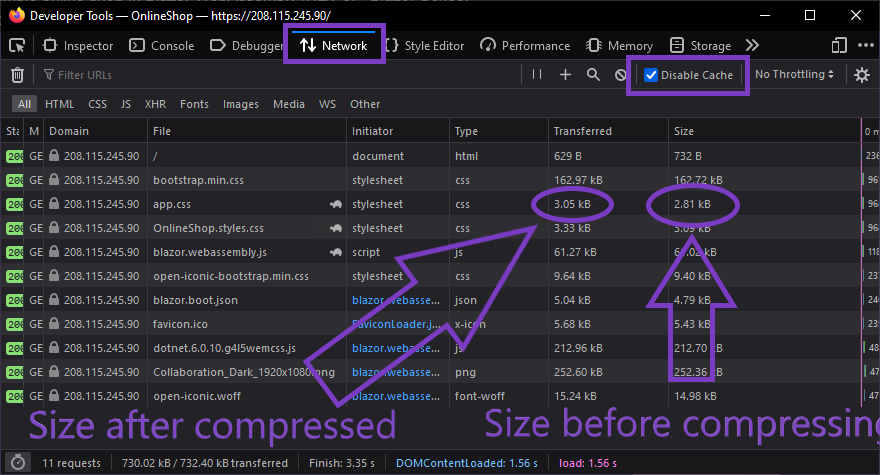
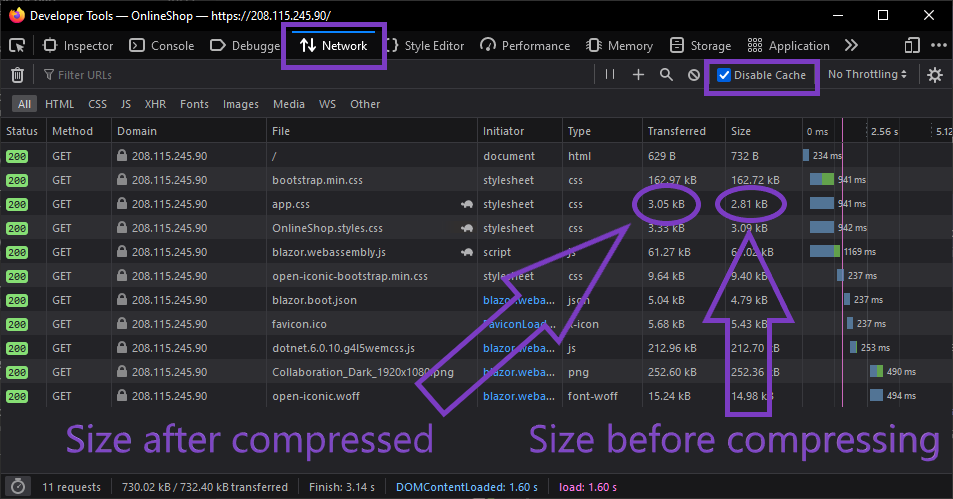
Fixed image cropping.

diff --git a/contents/blazor-wasm/dotnet6/linux-vps-hosting-with-deployment-pipeline-239189/index.html b/contents/blazor-wasm/dotnet6/linux-vps-hosting-with-deployment-pipeline-239189/index.html
@@ -136,7 +136,7 @@ gzip_types
 <p>The <code>gzip_comp_level</code> is the level of compressing, ranging from 1 to 9 which 1 is least compressed and 9 is the most compressed. Higher compressing level compensate your CPU usage, and sometimes it becomes bigger than the original.</p>
 <p>Some files, as mentioned above, after being compressed it becomes bigger. You need to add <code>gzip_min_length X</code> to tell NGINX not to compress if the size is less than <code>X</code>. There is no ideal number for this setting, you must monitor your website and give the decision.</p>
 <p>To see the effectiveness and ineffectiveness of the gzip, open your website, turn on the <strong>Web Developer Tools</strong> by pressing <strong>F12</strong>. Open the <strong>Network</strong> tab, check the <strong>Disable Cache</strong> option and reload the website:</p>
-<p><img src="contents\blazor-wasm\dotnet6\linux-vps-hosting-with-deployment-pipeline-239189\speed-up-blazor-webassembly-1.png" alt="speed-up-blazor-webassembly-1.png" width="880" height="475" /></p>
+<p><img src="contents\blazor-wasm\dotnet6\linux-vps-hosting-with-deployment-pipeline-239189\speed-up-blazor-webassembly-1.png" alt="speed-up-blazor-webassembly-1.png" width="953" height="499" /></p>
 <p>If the size before compressing is larger than the size after compressed, then you should compress the file. Otherwise, don't compress (either remove the <code>gzip_types</code> or increase the <code>gzip_min_length X</code>).</p>
 <hr class="my-4" />
 <h1>Setup GitHub action</h1>
